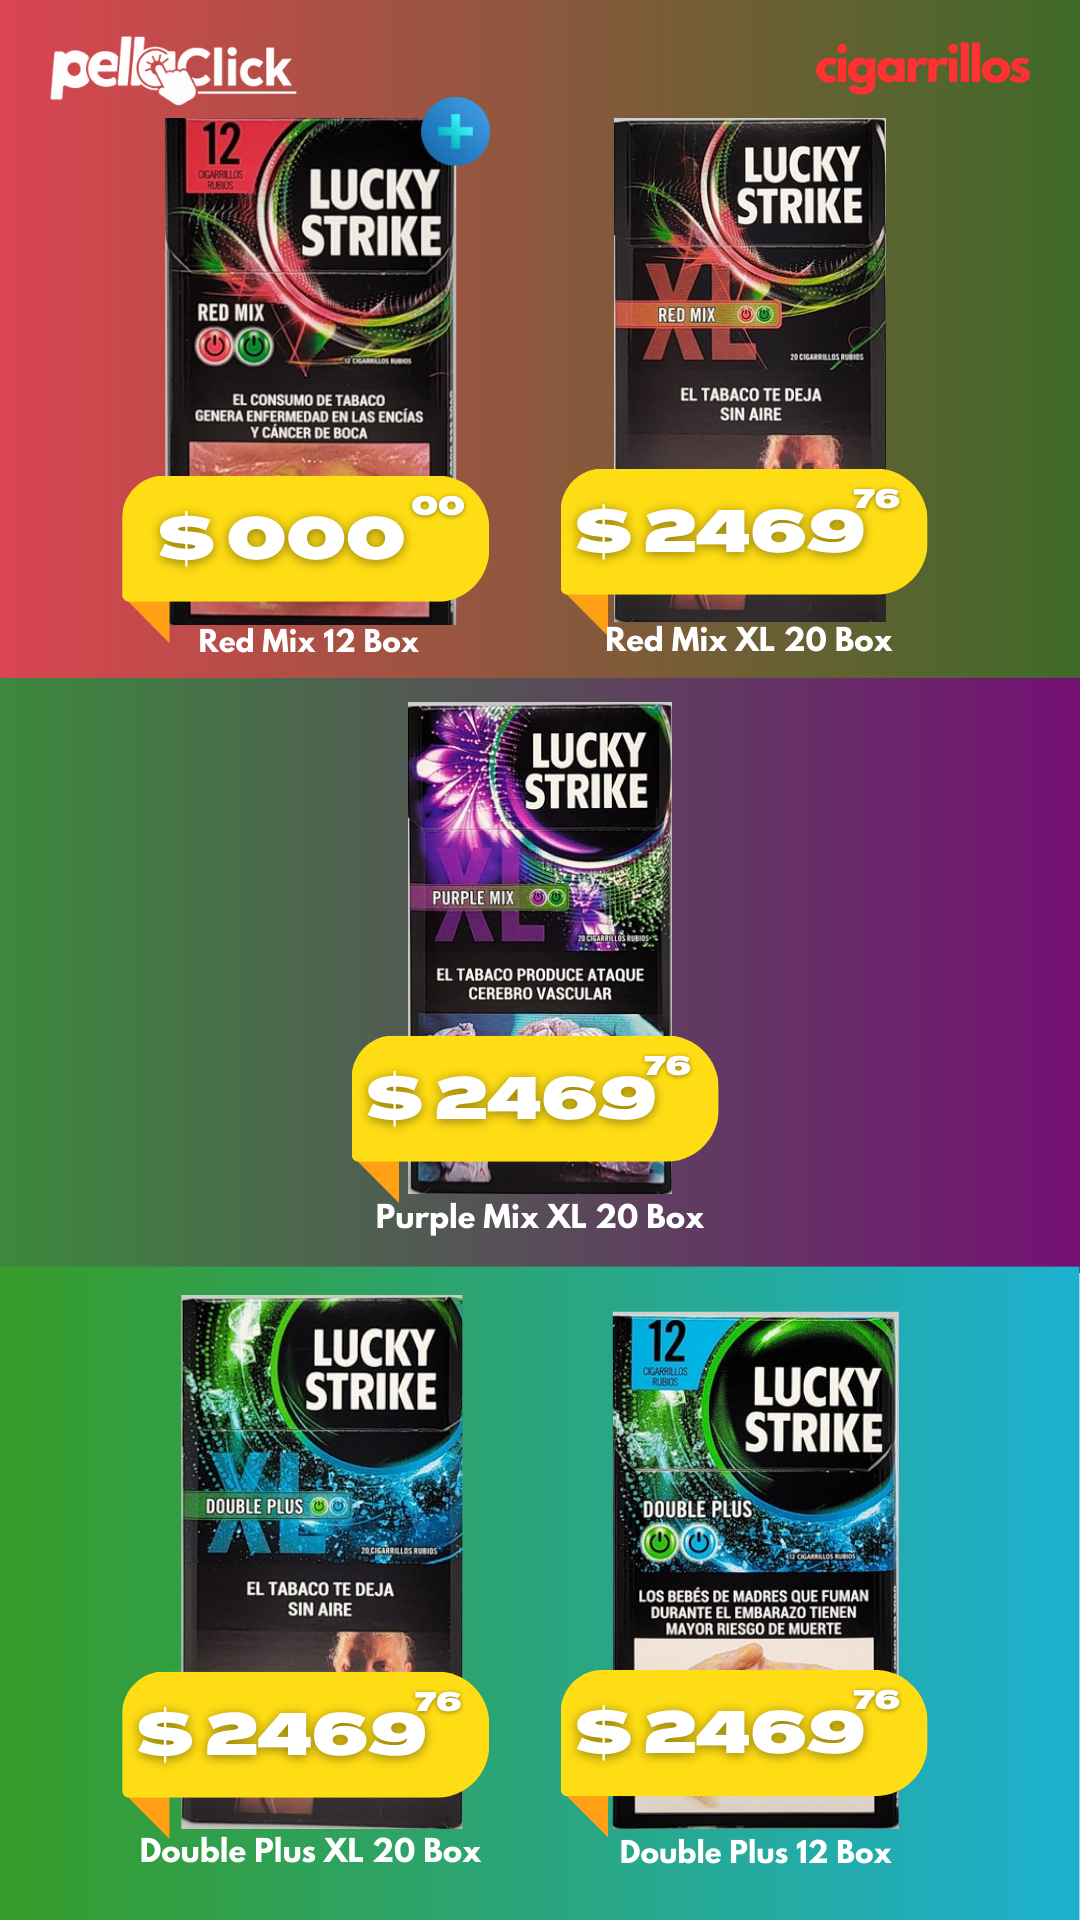
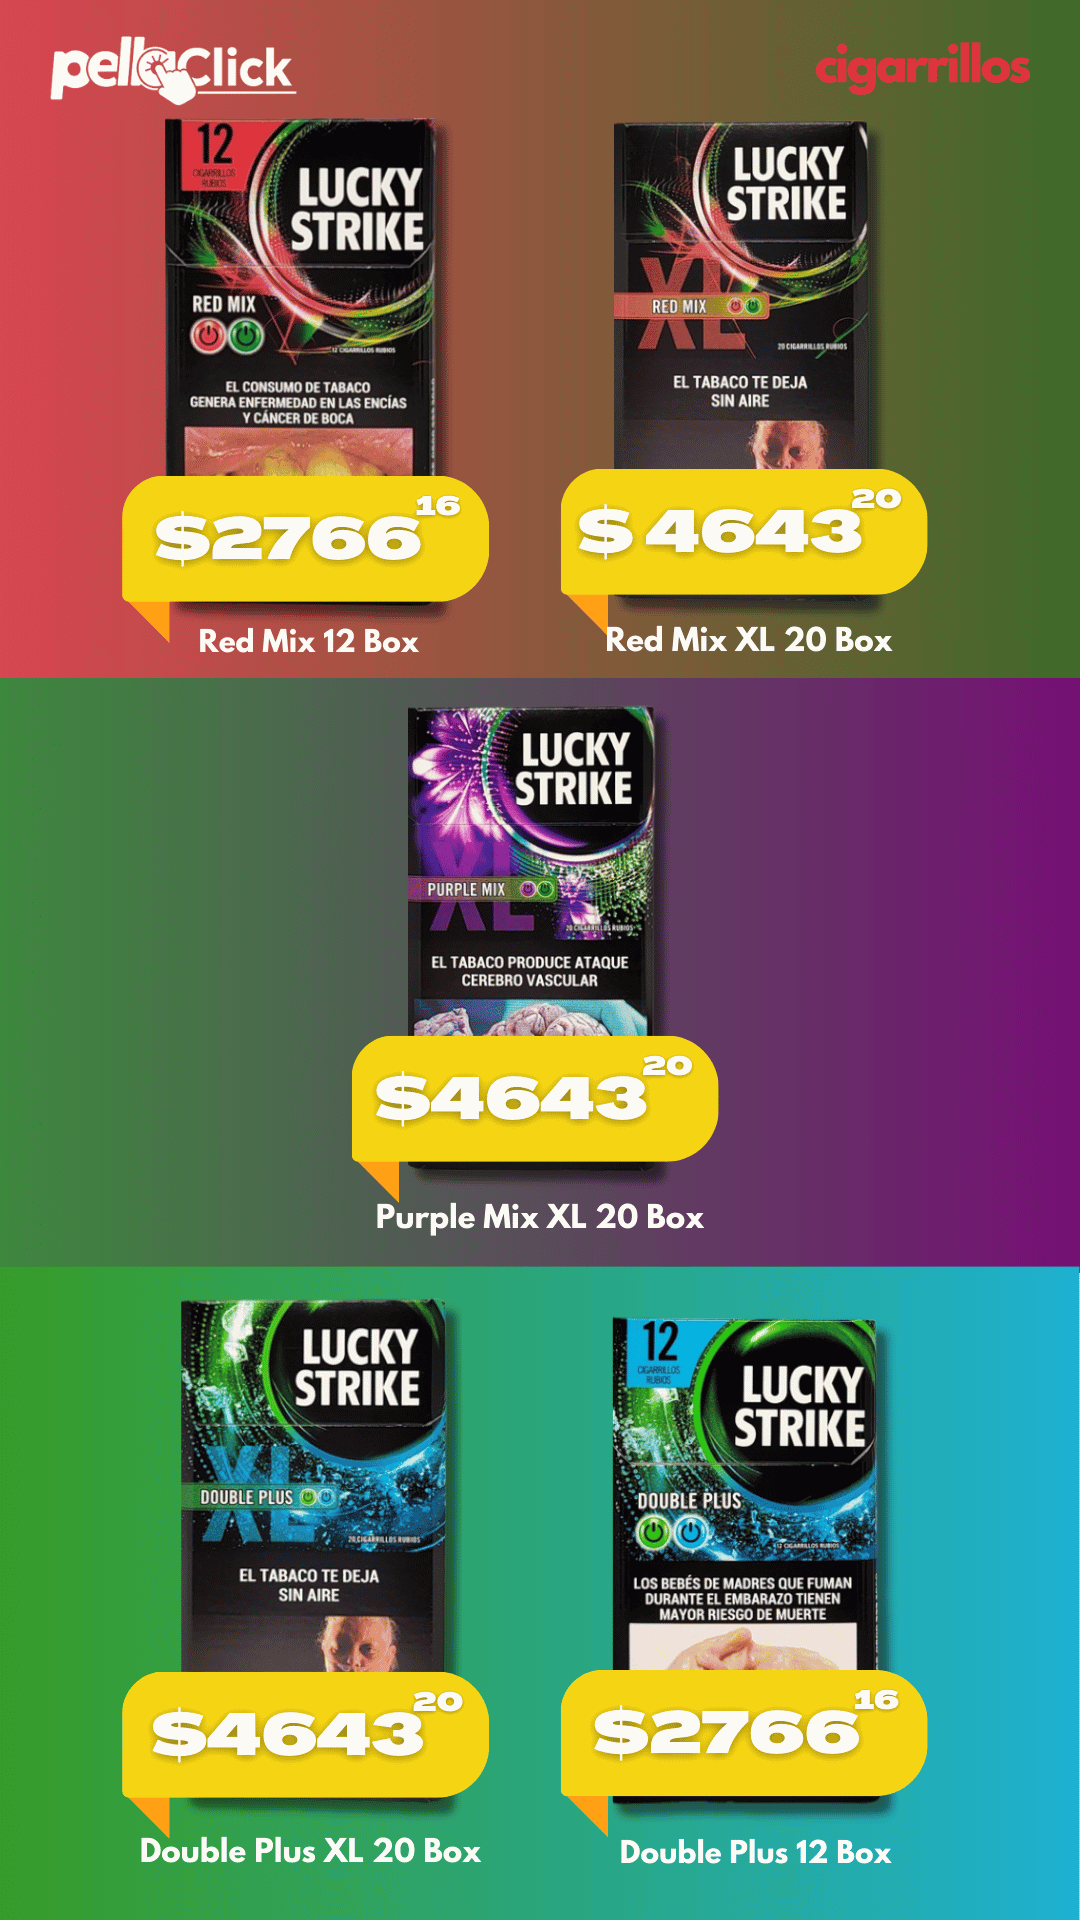
Catalogo con precios actuales

Changed region(s): [[0.1528, 0.0, 0.9472, 0.625], [0.5194, 0.6562, 0.8556, 0.9688], [0.1222, 0.6562, 0.4278, 0.9688]]

diff --git a/js/onboarding.js b/js/onboarding.js
@@ -14,7 +14,7 @@
   // ====== CONFIG: tus imágenes ======
   const SLIDES = [
     "img/omboarding/1.webp",
-    "img/omboarding/2.webp",
+    "img/omboarding/2.png",
     "img/omboarding/3.webp",
     "img/omboarding/4.webp",
     "img/omboarding/5.webp", 
